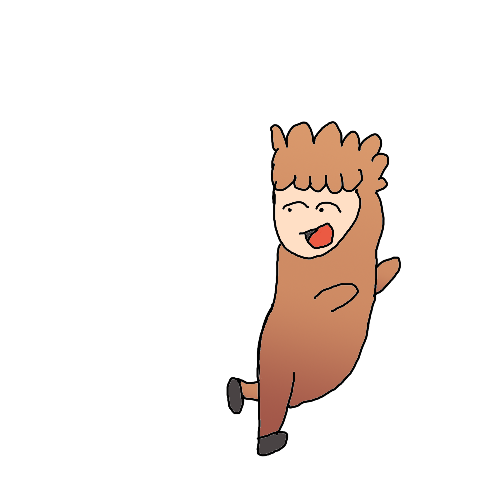
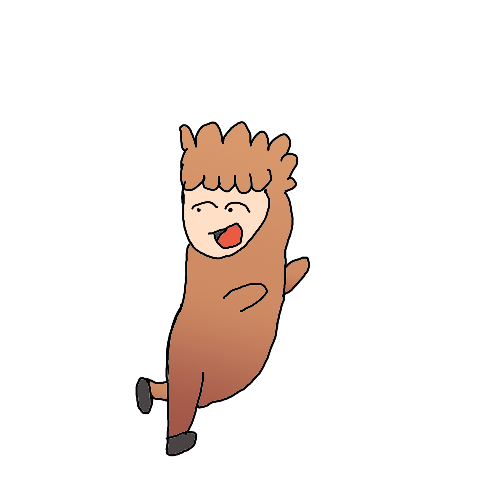
Adjusted dodge assets and added bullet being dodged

Changed region(s): [[0.27, 0.24, 0.81, 0.93]]

diff --git a/client/src/scenes/GameScene.js b/client/src/scenes/GameScene.js
@@ -59,6 +59,12 @@ export default class GameScene extends Phaser.Scene {
         this.smallExplosion = this.add.image(config.width/2, 472, 'small_explosion')
         this.smallExplosion.setScale(0.3)
         this.smallExplosion.setVisible(false)
+        this.bulletOnP1Side = this.add.image(config.width/2 - 265, 470, 'bullet')
+        this.bulletOnP1Side.setScale(0.65)
+        this.bulletOnP1Side.setVisible(false)
+        this.bulletOnP2Side = this.add.image(config.width/2 + 265, 470, 'bullet')
+        this.bulletOnP2Side.setScale(-0.65)
+        this.bulletOnP2Side.setVisible(false)
 
         this.game.socket.on("show game", this.populateGame.bind(this))
         this.game.socket.on("player left", this.leaveGame.bind(this))
@@ -187,6 +193,10 @@ export default class GameScene extends Phaser.Scene {
         gameData.additionalAssets.forEach((entry) =>  {
             if(entry === 'smallExplosion') {
                 this.smallExplosion.setVisible(true)
+            } else if(entry === 'bulletOnP1Side') {
+                this.bulletOnP1Side.setVisible(true)
+            } else if(entry === 'bulletOnP2Side') {
+                this.bulletOnP2Side.setVisible(true)
             }   
         })
     }
@@ -208,5 +218,7 @@ export default class GameScene extends Phaser.Scene {
         })
 
         this.smallExplosion.setVisible(false)
+        this.bulletOnP1Side.setVisible(false)
+        this.bulletOnP2Side.setVisible(false)
     }
 }

diff --git a/server/lobby/GameLogic.js b/server/lobby/GameLogic.js
@@ -78,11 +78,6 @@ GameLogic.prototype = {
             }
         })
 
-        console.log('Player 1')
-        console.log(player1)
-        console.log('Player 2')
-        console.log(player2)
-
         this.soundEffect = "none"
         this.additionalAssets = []
 
@@ -105,6 +100,7 @@ GameLogic.prototype = {
             player2.texture = 'shield'
             this.reduceStat(player2, 'shield')
             this.soundEffect = "gun_dodge"
+            this.additionalAssets.push('bulletOnP2Side')
         } else if(player1.action === 'Shoot' && player2.action === 'Rest') {
             player1.texture = 'shoot'
             this.reduceStat(player1, 'ammo')
@@ -145,6 +141,7 @@ GameLogic.prototype = {
             player2.texture = 'shoot'
             this.reduceStat(player2, 'ammo')
             this.soundEffect = "gun_dodge"
+            this.additionalAssets.push('bulletOnP1Side')
         } else if(player1.action === 'Shield' && player2.action === 'Reload') {
             player1.texture = 'shield'
             this.reduceStat(player1, 'shield')
